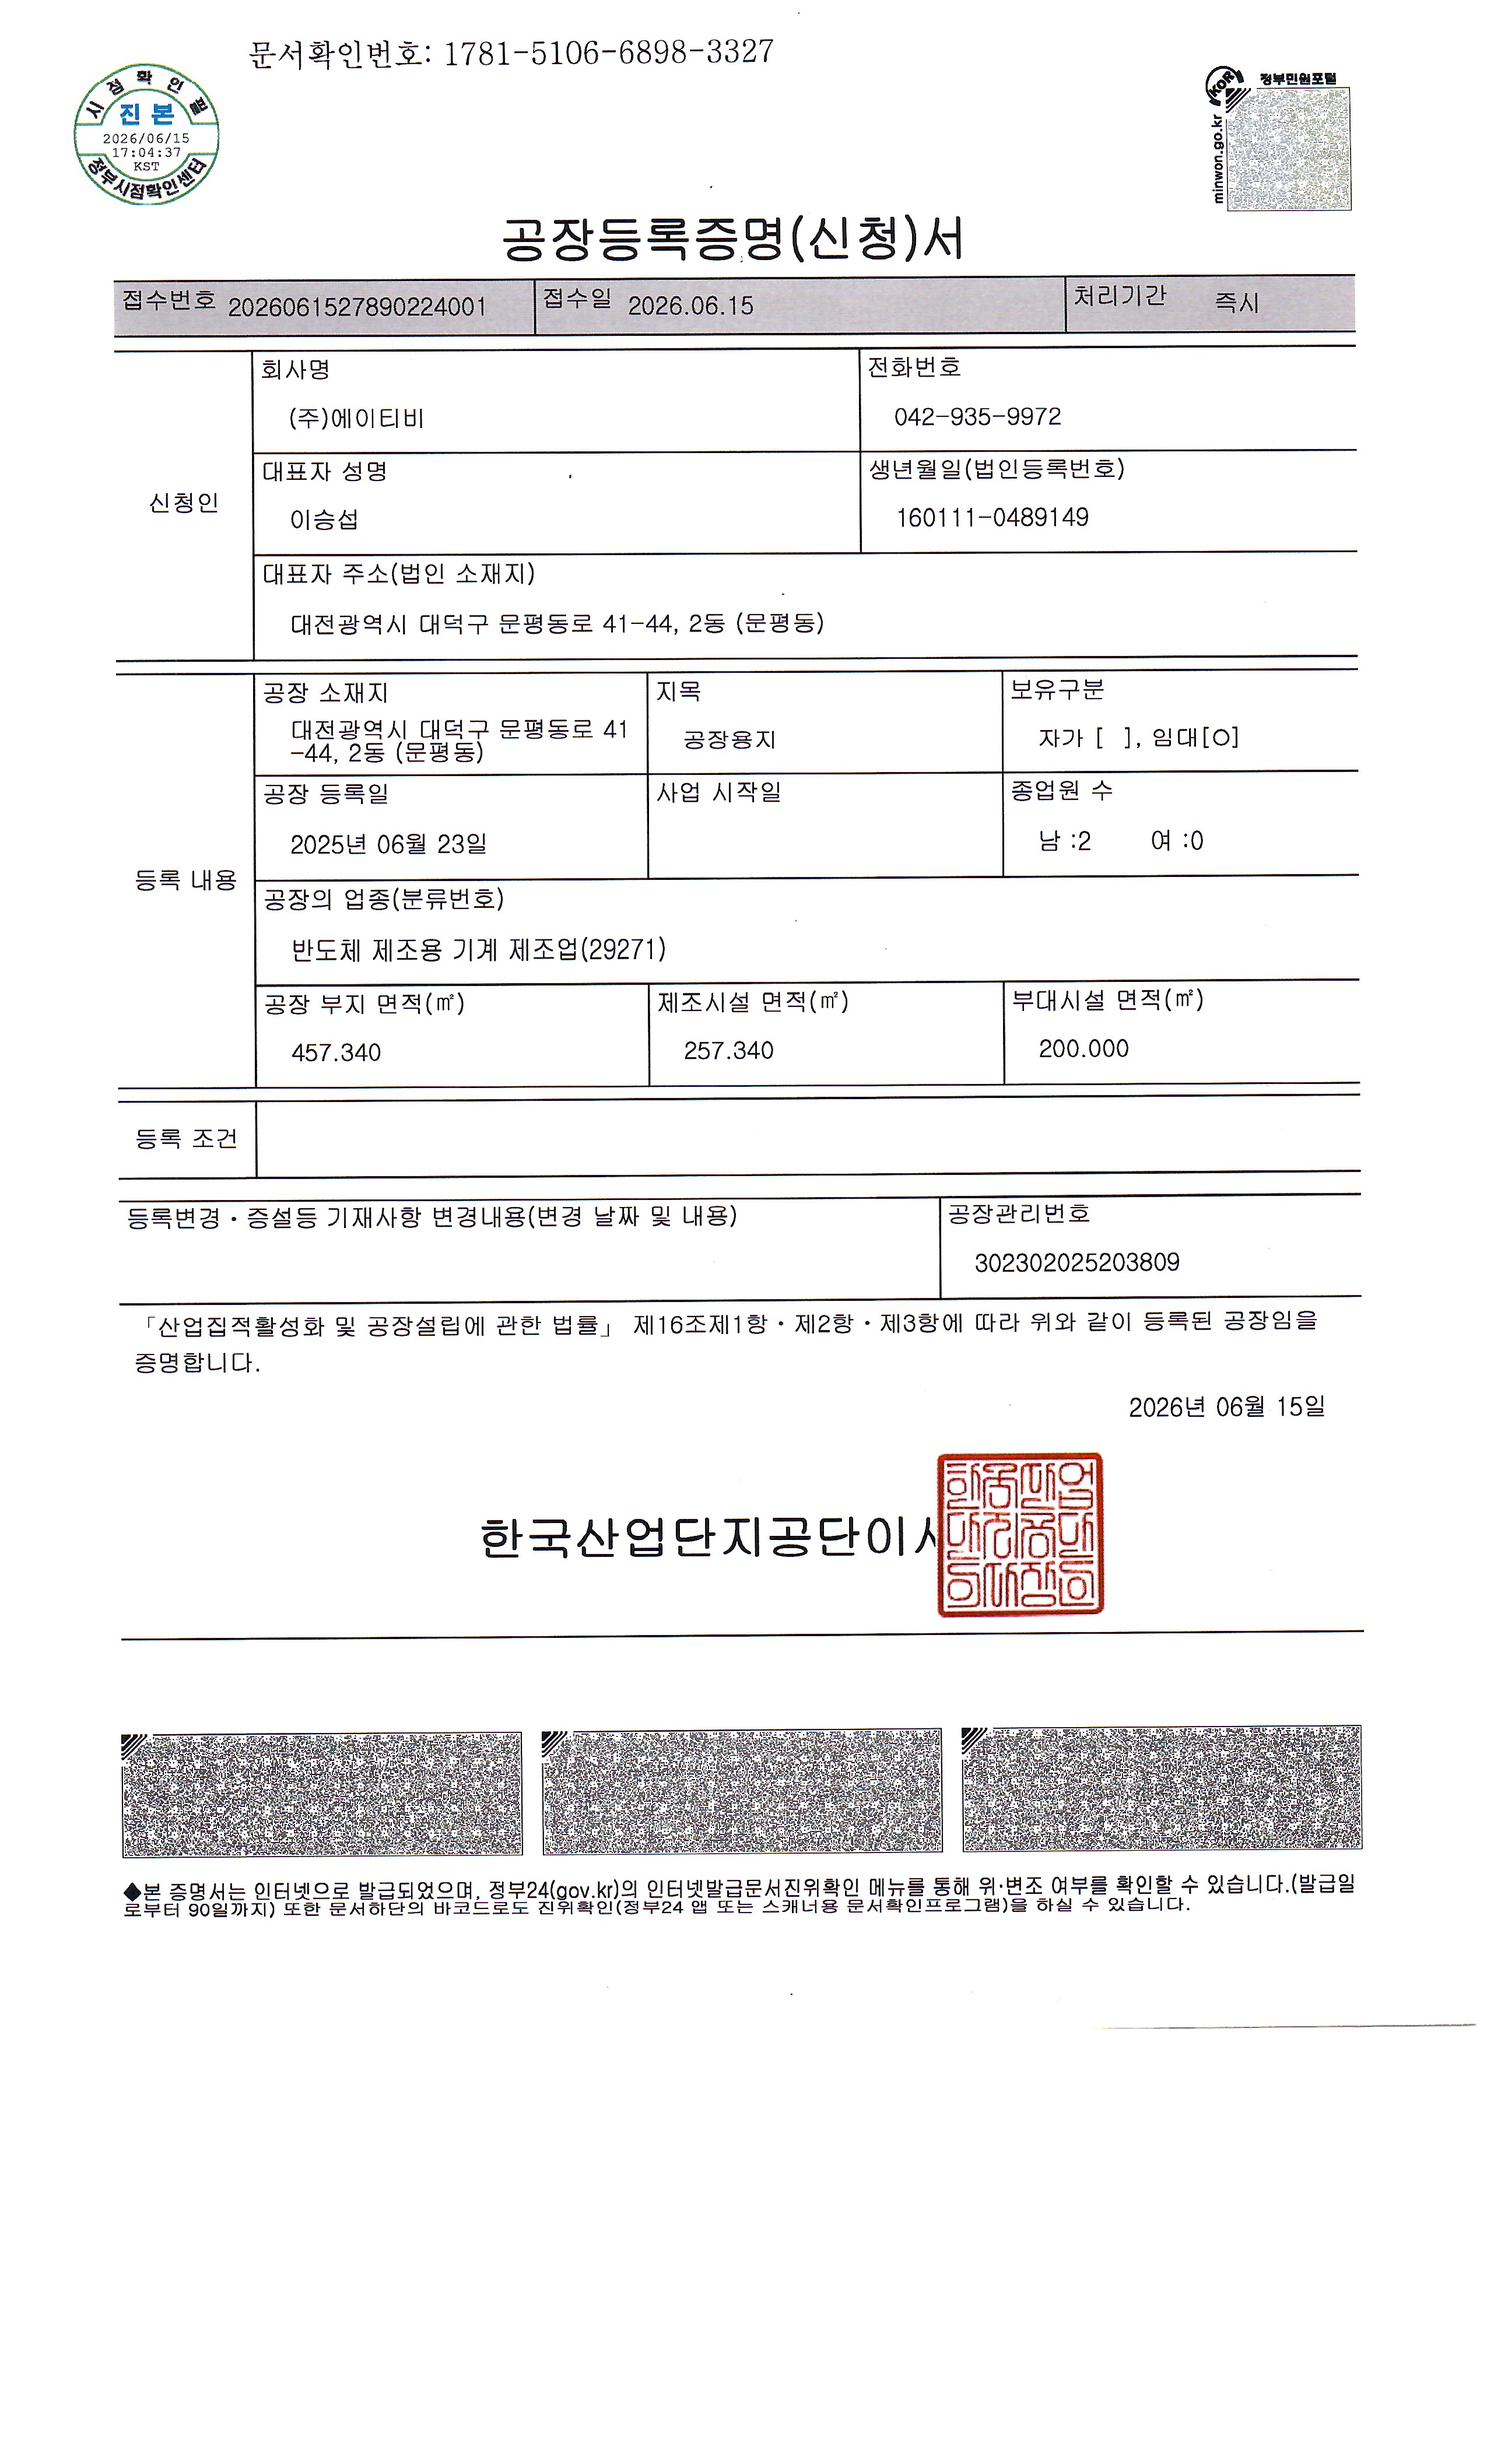
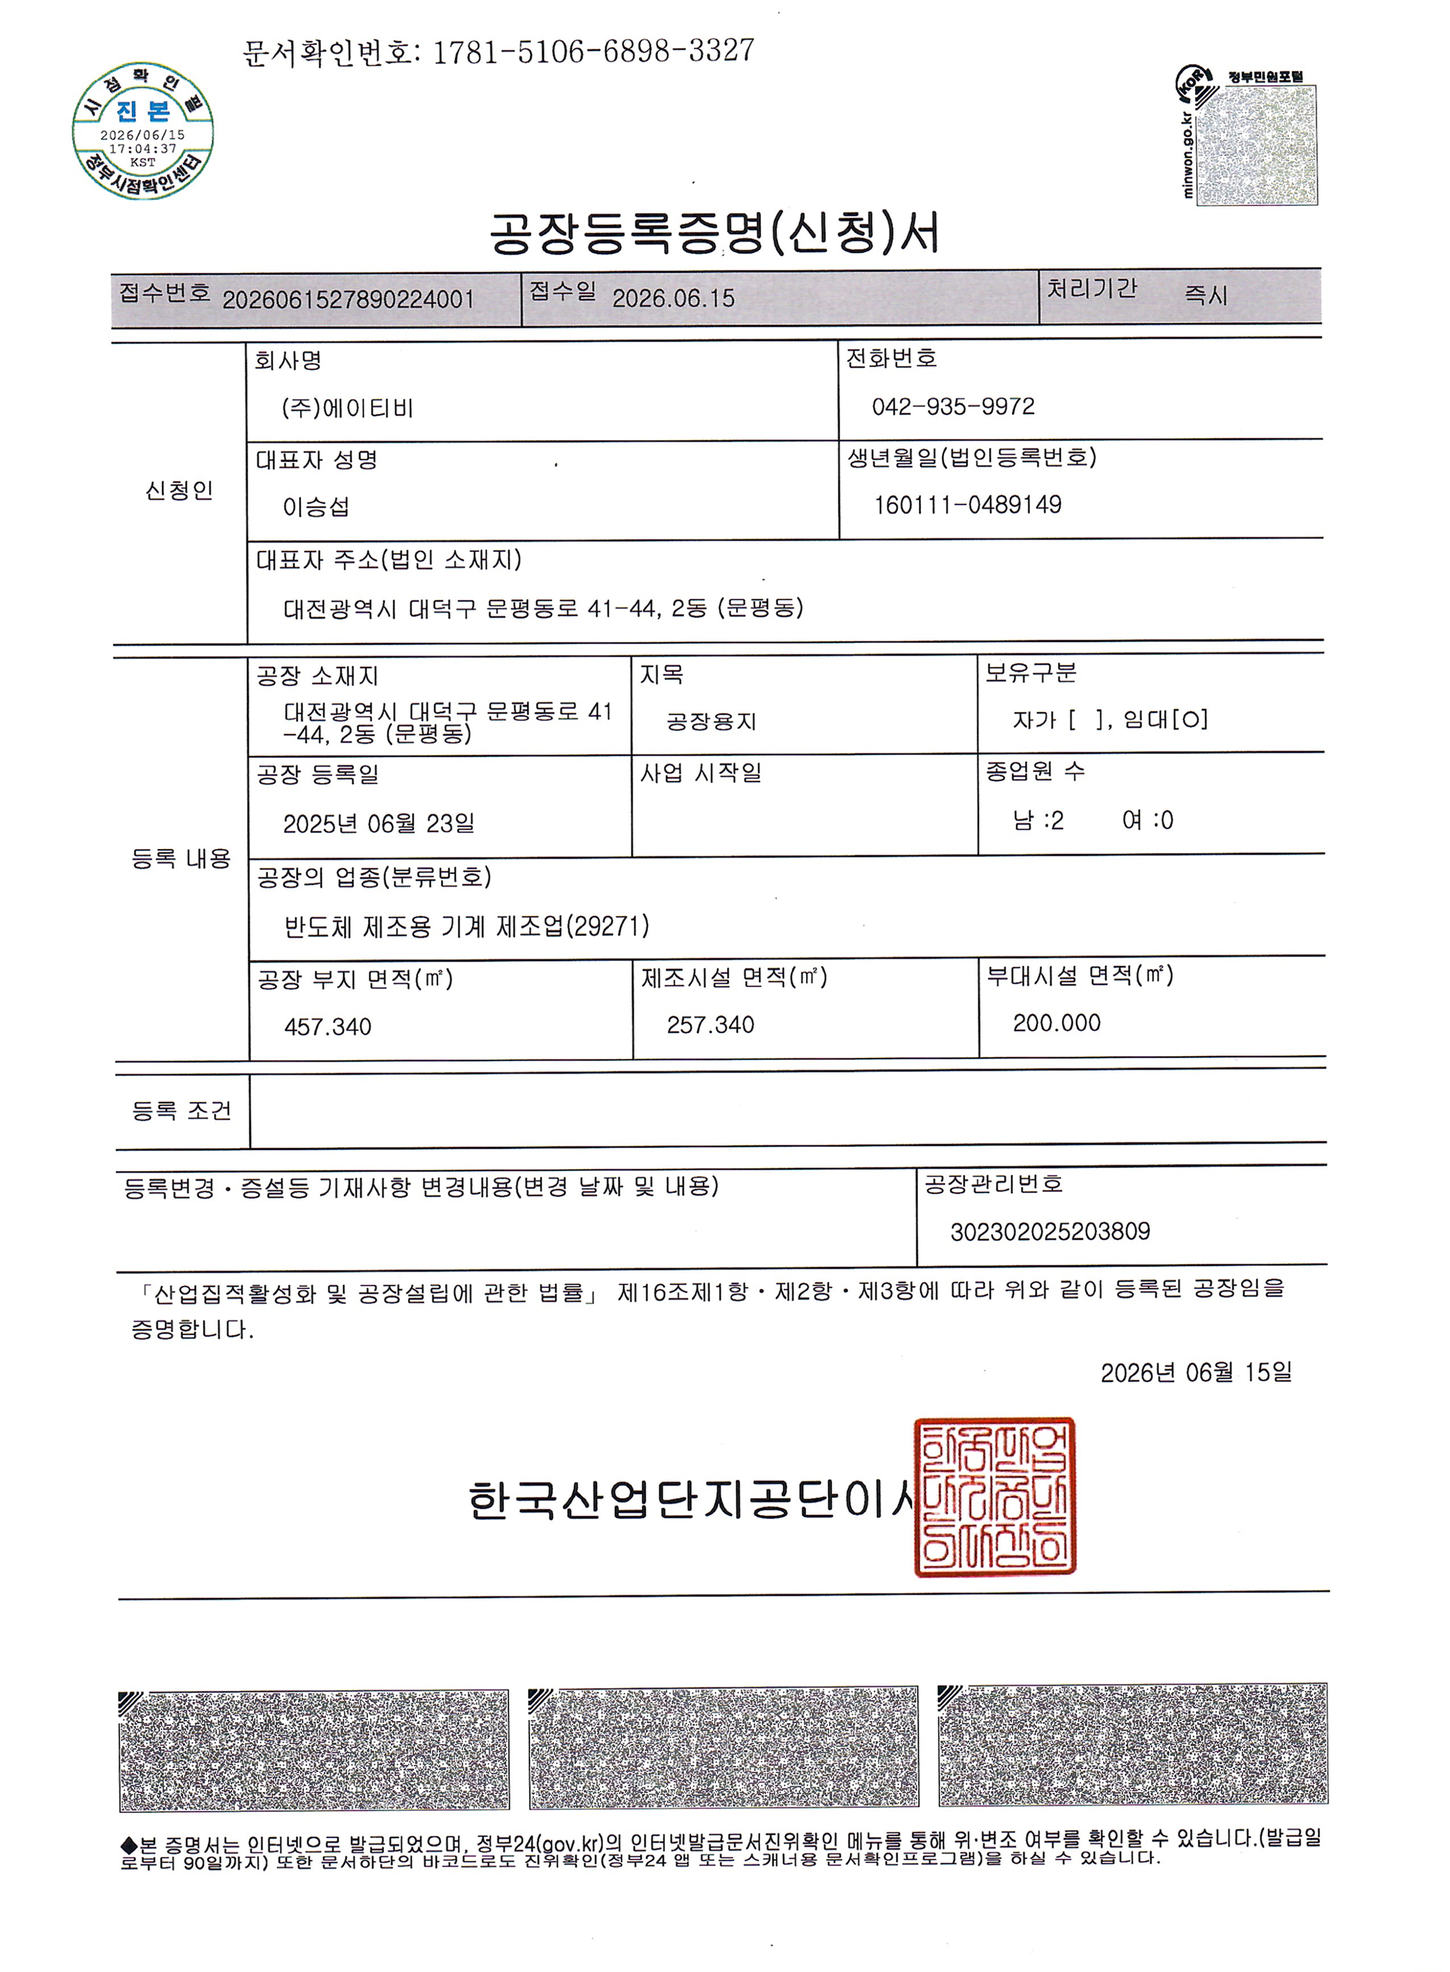
이미지 변경
공장등록증명
메인 페이지 섹션 이미지 두개

diff --git a/contents/certif.html b/contents/certif.html
@@ -119,7 +119,7 @@
                         <div class="factory_wrap">
                             <h1>공장등록</h1>
                             <div class="photo">
-                                <img src="../images/contents/pat01.jpg" alt="배터리 해체 장치 특허증">
+                                <img src="../images/contents/fac01.jpg" alt="공장등록증명">
                             </div>
                         </div>
                     </div>
